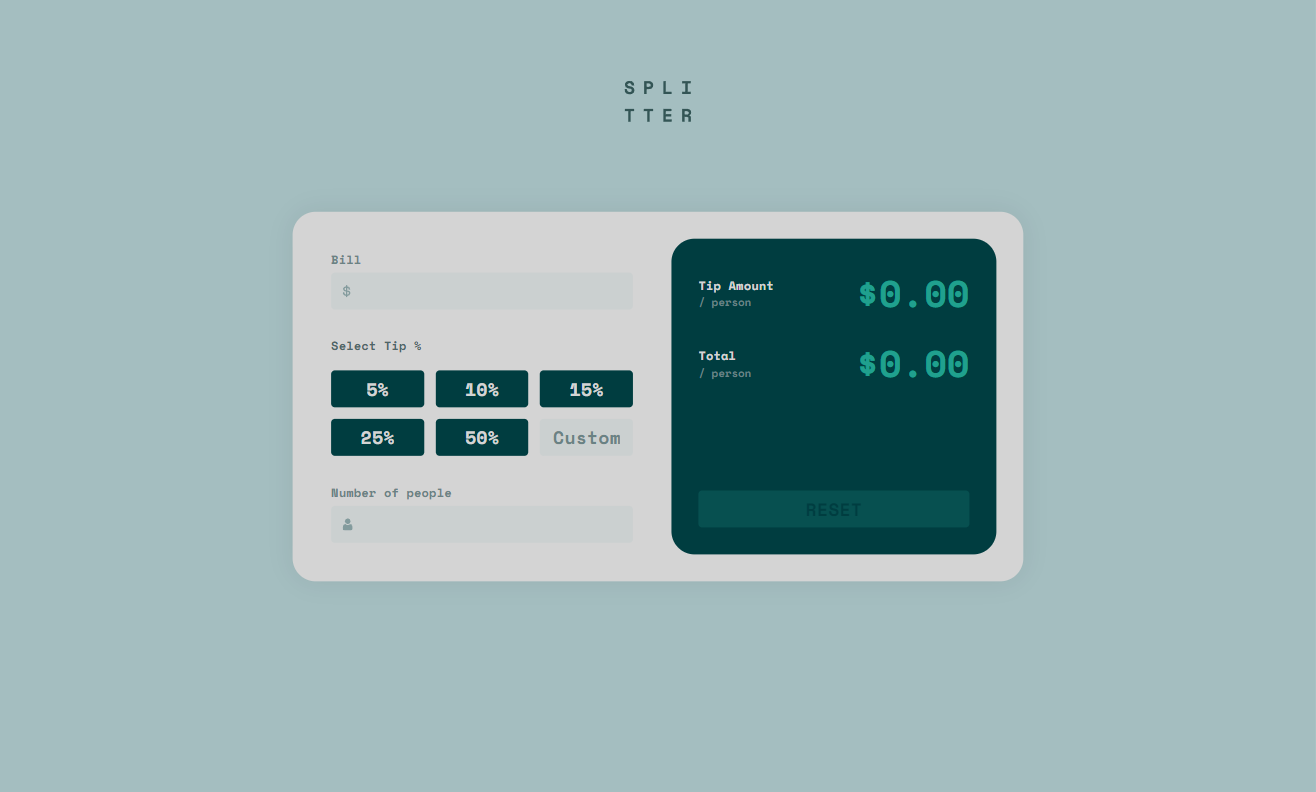
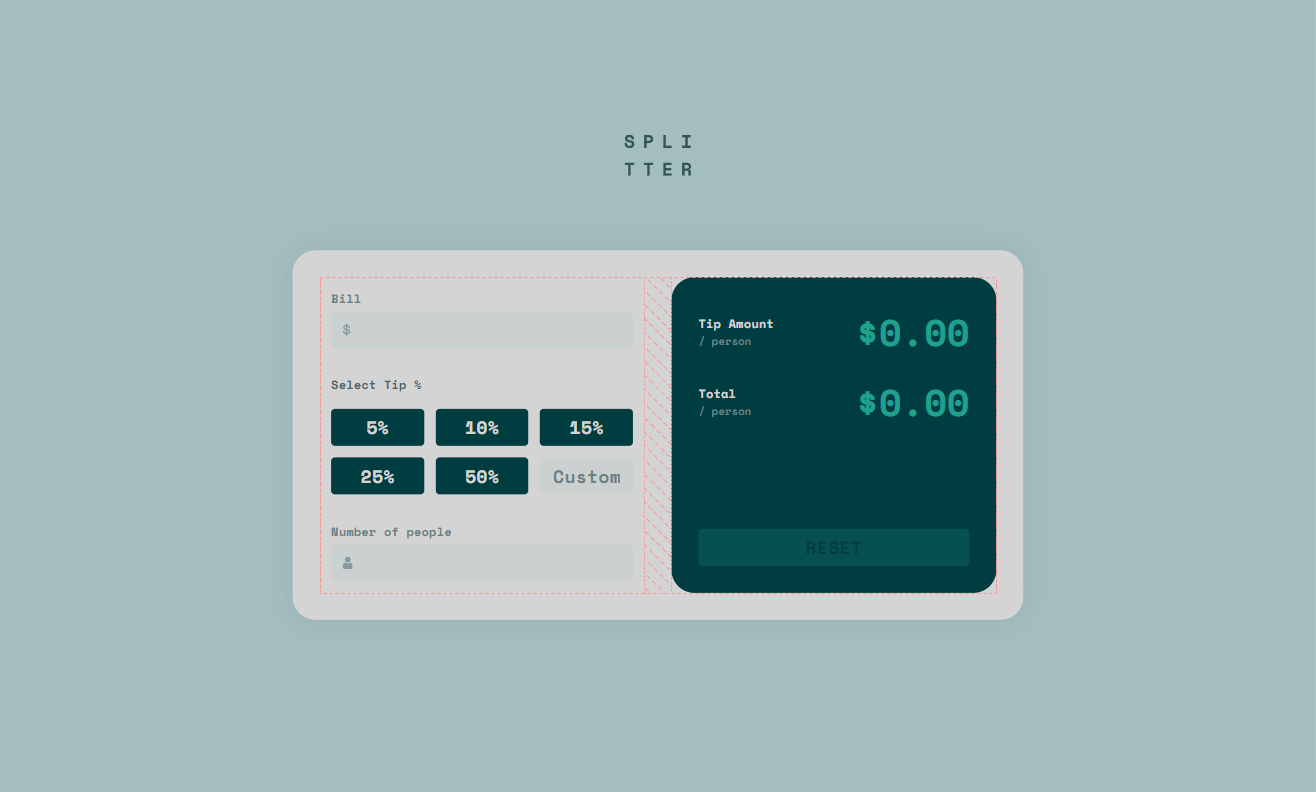
fixes

diff --git a/src/App/style.module.scss b/src/App/style.module.scss
@@ -20,7 +20,7 @@
   .logo {
     margin-top: 30px;
     position: absolute;
-    top: 75px;
+    top: 125px;
     @include mediaDown(lg) {
       position: unset;
     }
@@ -28,7 +28,7 @@
   .formWrapper {
     height: 480px;
     width: 949px;
-
+    margin-top: 70px;
     @include mediaDown(lg) {
       width: auto;
       height: auto;
